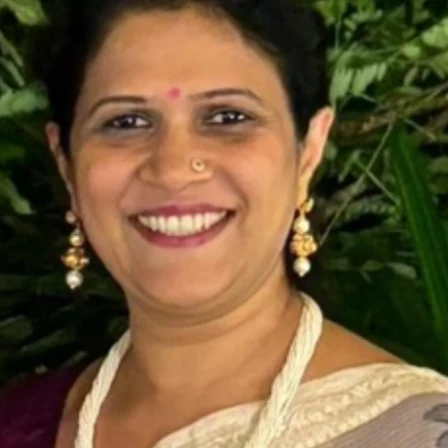
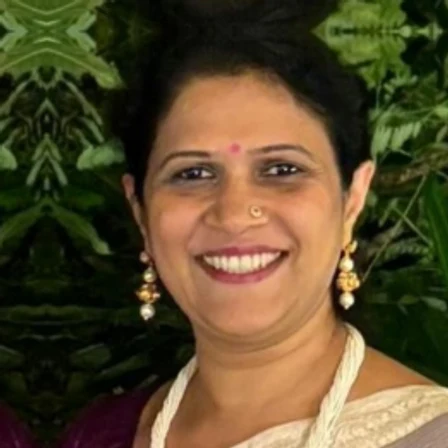
Align the team portraits on one face grid
The four portraits were cropped by sharp's attention strategy, which optimises for the most interesting region rather than the face - and picked a different region in each photo. Measured against a percentage grid the eye-lines landed between 32% and 40% of the frame, face centres between 40% and 57%, head heights between 50% and 57%. Side by side that reads as sloppy even when nobody can say why.

The crops are explicit now. Each photo records three measured numbers - the eye-line, the horizontal centre of the face, and hair-top-to-chin - and every crop is derived from them so all four share one framing: heads at 60% of the frame, eyes on the 40% line, faces centred. Verified against a shared eye-line overlay.

Vagdev's photo was scanned onto a larger canvas: columns 251-269 are blank white and column 250 is the dark edge of the print. Aligning his face pulled all of it into frame, so his source is trimmed to its real content first. Crops that now reach past a source edge are mirrored rather than clamped, which keeps the alignment exact - and the circle throws those corners away anyway.

Two passes through sharp on purpose: its pipeline runs extract before extend, so padding and cropping in one chain extracts from the unpadded original and falls outside it.
[…]

diff --git a/src/components/Team.tsx b/src/components/Team.tsx
@@ -52,7 +52,11 @@ export default function Team() {
               <h3 className="mt-9 font-display text-[1.5rem] leading-none text-paper">
                 {member.name}
               </h3>
-              <p className="mt-3 font-mono text-[0.6875rem] uppercase leading-[1.6] tracking-[0.16em] text-mist">
+              {/* Two lines' worth of space is reserved whether or not the
+                  credential needs it — one of the four wraps, and without this
+                  its biography starts lower than the other three and the row
+                  stops lining up. 0.6875rem at 1.6 leading = 1.1rem a line. */}
+              <p className="mt-3 min-h-[2.2rem] font-mono text-[0.6875rem] uppercase leading-[1.6] tracking-[0.16em] text-mist">
                 <span className="text-gold">{member.role}</span>
                 <span aria-hidden="true"> · </span>
                 {member.credential}
@@ -63,8 +67,14 @@ export default function Team() {
               </p>
 
               {/* Pinned to the foot so the four rules line up across the row
-                  even though the biographies are different lengths. */}
-              <p className="mt-auto border-t border-paper-12 pt-4 font-mono text-[0.625rem] uppercase leading-[1.7] tracking-[0.12em] text-paper-64">
+                  even though the biographies are different lengths — and given
+                  two lines' worth of height, because one focus list wraps and
+                  a taller block would otherwise start its rule higher than the
+                  rest. The height is written out rather than rounded because
+                  box-sizing is border-box here: it has to cover two lines
+                  (2 × 1.0625rem), the top padding (1rem) and the rule (1px),
+                  or the padding alone satisfies it and the rule never moves. */}
+              <p className="mt-auto min-h-[calc(2*1.0625rem+1rem+1px)] border-t border-paper-12 pt-4 font-mono text-[0.625rem] uppercase leading-[1.7] tracking-[0.12em] text-paper-64">
                 {member.focus}
               </p>
             </Reveal>
